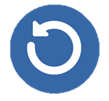
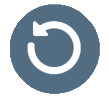
Minor Change and Fixes

diff --git a/main.py b/main.py
@@ -140,7 +140,7 @@ def progess_page():
     button_next_3 = ButtonText(grid_x * 14 - 40, grid_y * 13 + 30, "END", FONT_BOLD, BACKGROUND_COLOR,
                                PRIMARY_COLOR_300,
                                background_color=PRIMARY_COLOR_100, padding_x=50, padding_y=10, border_radius=20)
-    icon_button_replay = ButtonIcon(screen_width/2-20, grid_y * 13 + 30, graphic_path / "replay.png", .6)
+    icon_button_replay = ButtonIcon(screen_width/2-20, grid_y * 13 + 30, graphic_path / "replay.png", .6, alternative_path=graphic_path / "replay_alt.png")
 
     rec_3_1 = Rectangle(grid_x * 2, grid_y * 3 + 20, grid_x * 12, grid_x * 5, "white", border_radius=30)
     text_pwm_simulate = Text(grid_x * 2 + 45, grid_y * 3 + 40, f"PWM = {resulting_pwm} V", FONT_LIGHT_SMALL,
@@ -168,7 +168,6 @@ def progess_page():
                 ball_showing = True
             for component in simulate_components:
                 component.draw(screen)
-            print(ball_showing)
             if ball_showing:
                 ball.draw(screen)
 
@@ -205,8 +204,8 @@ button_next_i = ButtonText(grid_x * 14 - 40, grid_y * 13 + 30, "Done", FONT_BOLD
 i_div_1_starting = grid_x*9-50
 i_div_1_width = grid_x*5+40
 
-input_box_target_x = TextInputBox(i_div_1_starting, grid_y*5-45, grid_x*3-30, FONT_BOLD, color=PRIMARY_COLOR_100)
-input_box_target_y = TextInputBox(i_div_1_starting, grid_y*7-20-45, grid_x*3-30, FONT_BOLD, color=PRIMARY_COLOR_100)
+input_box_target_x = TextInputBox(i_div_1_starting, grid_y*5-45, grid_x*3-30, FONT_BOLD, color=PRIMARY_COLOR_100, color_active=PRIMARY_COLOR_300)
+input_box_target_y = TextInputBox(i_div_1_starting, grid_y*7-20-45, grid_x*3-30, FONT_BOLD, color=PRIMARY_COLOR_100, color_active=PRIMARY_COLOR_300)
 rect_i_1 = Rectangle(i_div_1_starting - grid_x, grid_y * 4+30-45, i_div_1_width, grid_y*4-30, "white", border_radius=30)
 
 text_i_1 = Text(i_div_1_starting - 40, grid_y*5+5-45, f"X", FONT_BOLD, PRIMARY_COLOR_100)
@@ -229,7 +228,7 @@ input_components = [text_i_warning, rect_i_1, text_i_1, text_i_2, text_i_3, text
 ### Setup Page ###
 selector = Selector(grid_x * 6 - 100, grid_y * 9-20 + 30)
 
-icon_button_setting = ButtonIcon(grid_x-20, grid_y-10, graphic_path / "gear.png", .15)
+icon_button_setting = ButtonIcon(grid_x-20, grid_y-10, graphic_path / "gear.png", .15, alternative_path=graphic_path / "gear_alt.png")
 target_pos = ("-", "-")
 button_next_1 = ButtonText(grid_x * 14 - 100, grid_y * 13 + 30, "next →", FONT_BOLD, BACKGROUND_COLOR, PRIMARY_COLOR_300,
                            background_color=PRIMARY_COLOR_100, padding_x=50, padding_y=10, border_radius=20)
@@ -305,29 +304,35 @@ while True:
                 display_block_manager.render_block()
                 selector.render()
                 text_i_warning.set_content("")
-                time.sleep(.1)
 
             elif button_add_target.handle_mouse_event(event):
                 if not input_box_target_x.text or not input_box_target_y.text:
                     text_i_warning.set_content("Your input box is Empty.")
                     text_i_warning.shake()
-                elif not input_box_target_x.text.isdigit() or not input_box_target_y.text.isdigit():
+                elif (not input_box_target_x.text[1:].isdigit() or not input_box_target_y.text[1:].isdigit()) and (not input_box_target_x.text[0].isdigit() or not input_box_target_y.text[0].isdigit()):
                     text_i_warning.set_content("Invalid Number (mai dai amp pom rok =w=).")
                     text_i_warning.shake()
                 elif int(input_box_target_y.text) > 300 or int(input_box_target_y.text) < 65:
                     text_i_warning.set_content("Invalid Target Position.")
                     text_i_warning.shake()
                 elif int(input_box_target_x.text) > abs((int(input_box_target_y.text) - 300) / 2) or int(input_box_target_x.text) < -abs((int(input_box_target_y.text) - 300) / 2):
-                    print(abs((int(input_box_target_y.text) - 300) / 2))
                     text_i_warning.set_content("Invalid Target Position.")
                     text_i_warning.shake()
                 elif len(display_block_manager.display_blocks) >= 3:
                     text_i_warning.set_content("You can only have at most 3 Targets at once.")
                     text_i_warning.shake()
                 else:
-                    inputted_target_pos = [input_box_target_x.text, input_box_target_y.text]
-                    display_block_manager.add_block(inputted_target_pos)
-                    text_i_warning.set_content("")
+                    for i in display_block_manager.get_blocks_real_pos():
+                        if [int(input_box_target_x.text), int(input_box_target_y.text)] == i:
+                            text_i_warning.set_content("Identical Target Position!")
+                            text_i_warning.shake()
+                            break
+                    else:
+                        inputted_target_pos = [int(input_box_target_x.text), int(input_box_target_y.text)]
+                        display_block_manager.add_block(inputted_target_pos)
+                        text_i_warning.set_content("")
+                input_box_target_x.text = ""
+                input_box_target_y.text = ""
         elif current_step == "setup":
             if button_next_1.handle_mouse_event(event):
                 if target_pos != ("-", "-"):

diff --git a/components/Selector.py b/components/Selector.py
@@ -39,6 +39,7 @@ class Selector:
 
         self.__preview_components = {}
         self.__select_components = {}
+        self.__select_circle = None
 
         self.real_data = {}
         self.render()
@@ -49,7 +50,6 @@ class Selector:
         with open(Path.cwd() / "target_pos.csv", "r", newline="") as file:
             csv_reader = csv.reader(file, delimiter=",")
             for index, row in enumerate(csv_reader):
-                print(f"row {row}")
                 if len(row) != 2:
                     print("invaild")
                     continue
@@ -60,17 +60,18 @@ class Selector:
                                     self.__circle_radius, self.__circle_radius, color=BACKGROUND_COLOR,
                                     border_radius=100)
                 self.__circles_display.append(circle1)
-
-                circle2 = Rectangle(
+                centers_pos = [
                     round(self.__zero_pos[0] + pos[0] - (self.__circle_radius + self.circle_border_thickness) / 2),
-                    round(self.__zero_pos[1] + 25 - pos[1] - (self.__circle_radius + self.circle_border_thickness) / 2),
+                    round(self.__zero_pos[1] + 25 - pos[1] - (self.__circle_radius + self.circle_border_thickness) / 2)
+                ]
+                color = PRIMARY_COLOR_100 if centers_pos == self.__select_circle else GRAY_COLOR
+                circle2 = Rectangle(
+                    centers_pos[0],
+                    centers_pos[1],
                     self.__circle_radius + self.circle_border_thickness, self.__circle_radius + self.circle_border_thickness,
-                    color=GRAY_COLOR, border_radius=100)
+                    color=color, border_radius=100)
                 self.__circles_interactable.append(circle2)
                 self.real_data[circle2] = tuple(real_pos)
-
-    # def get_placeholder(self):
-    #     return list(self.real_data.keys())[0]
 
     def draw(self, screen):
         self.sprite_target_topview.draw(screen)
@@ -135,6 +136,7 @@ class Selector:
                     for i in self.__circles_interactable:
                         i.color = GRAY_COLOR
                     circle.color = PRIMARY_COLOR_100
+                    self.__select_circle = [circle.pos_x, circle.pos_y]
                     return self.real_data[circle]
                 break
         else:

diff --git a/components/DisplayBlock.py b/components/DisplayBlock.py
@@ -13,8 +13,8 @@ font_path = Path.cwd() / "fonts"
 
 BACKGROUND_COLOR = (239, 247, 255)
 PRIMARY_COLOR_100 = (82, 109, 130)
-RED_COLOR = (255, 0, 0)
-RED_COLOR_300 = (255, 223, 0)
+RED_COLOR = (252, 3, 44)
+RED_COLOR_300 = (199, 8, 52)
 SELECTED_COLOR = (26, 95, 122)
 GRAY_COLOR = (138, 127, 127)
 FONT_LIGHT_SMALL = pg.font.Font(font_path / "Prompt-Bold.ttf", 24)
@@ -44,11 +44,9 @@ class DisplayBlockManager:
         with open(Path.cwd() / "target_pos.csv", "r", newline="") as file:
             csv_reader = csv.reader(file, delimiter=",")
             for index, row in enumerate(csv_reader):
-                print(row)
                 if len(row) != 2:
                     print("invaild")
                 real_pos = [int(i) for i in row]
-                print(real_pos)
                 display_block = DisplayBlock(self.pos_x + self.grid_x * (index * 4.6), self.pos_y, self.grid_x,
                                              self.grid_y, real_pos[0], real_pos[1], index+1)
                 self.display_blocks.append(display_block)
@@ -71,6 +69,8 @@ class DisplayBlockManager:
                     for i in lines:
                         writer.writerow(i)
                 self.render_block()
+    def get_blocks_real_pos(self):
+        return [[i.displaying_x_pos, i.displaying_y_pos] for i in self.display_blocks]
 
 class DisplayBlock:
 

diff --git a/components/Sprite.py b/components/Sprite.py
@@ -8,12 +8,8 @@ class Sprite(pg.sprite.Sprite):
         self.pos_x = pos_x
         self.pos_y = pos_y
         self.scaling = scaling
-
-        self.default_image = pg.image.load(image_path).convert_alpha()
-        self.width = self.default_image.get_rect().width
-        self.height = self.default_image.get_rect().height
-        self.image = pg.transform.scale(self.default_image, (self.width*self.scaling, self.height*self.scaling))
-        self._rect = self.image.get_rect()
+        self.image_path = image_path
+        self.render()
 
     def draw(self, screen):
         self._rect.topleft = (self.pos_x, self.pos_y)
@@ -24,3 +20,10 @@ class Sprite(pg.sprite.Sprite):
         self.width = self.default_image.get_rect().width
 
         self.image = pg.transform.scale(self.default_image, (self.width * scale, self.height * scale))
+
+    def render(self):
+        self.default_image = pg.image.load(self.image_path).convert_alpha()
+        self.width = self.default_image.get_rect().width
+        self.height = self.default_image.get_rect().height
+        self.image = pg.transform.scale(self.default_image, (self.width * self.scaling, self.height * self.scaling))
+        self._rect = self.image.get_rect()

diff --git a/components/ButtonIcon.py b/components/ButtonIcon.py
@@ -4,17 +4,24 @@ from components.Sprite import Sprite
 
 class ButtonIcon(Sprite):
 
-    def __init__(self, *args):
+    def __init__(self, *args, alternative_path=None):
         super().__init__(*args)
+        self.old_path = self.image_path
+        self.alternative_path = alternative_path if alternative_path else self.image_path
 
     def handle_mouse_event(self, event):
         point = pg.mouse.get_pos()
         collide = self._rect.collidepoint(point)
         if collide:
+            self.image_path = self.alternative_path
+            self.render()
             if event.type == pg.MOUSEBUTTONDOWN and event.button == 1:  # If Button is left clicked
                 self.scale_image(self.scaling - self.scaling*0.01)  # Animation
                 return True
             else:
                 self.scale_image(self.scaling)
+        else:
+            self.image_path = self.old_path
+            self.render()
 
 

diff --git a/components/ProgressBar.py b/components/ProgressBar.py
@@ -3,7 +3,7 @@ import pygame as pg
 distance = 160
 circle_size = 22
 
-COLOR_NAVY = pg.Color((33, 50, 94))
+COLOR_NAVY = pg.Color((84, 91, 119))
 COLOR_SKYBLUE = pg.Color((189, 216, 241))
 COLOR_GREEN = pg.Color((26, 95, 122))
 COLOR_SKYBLUE_BG = pg.Color((239, 247, 255))

diff --git a/components/Calculator.py b/components/Calculator.py
@@ -18,4 +18,4 @@ class Calculator:
         return rpm * 12 / 1666.67
 
     def calculate_robot_pos(self, target_pos):
-        return 40 + (target_pos[0]/10) - 10 , 0
+        return 40 + (target_pos[0]/10) - 10, 0
